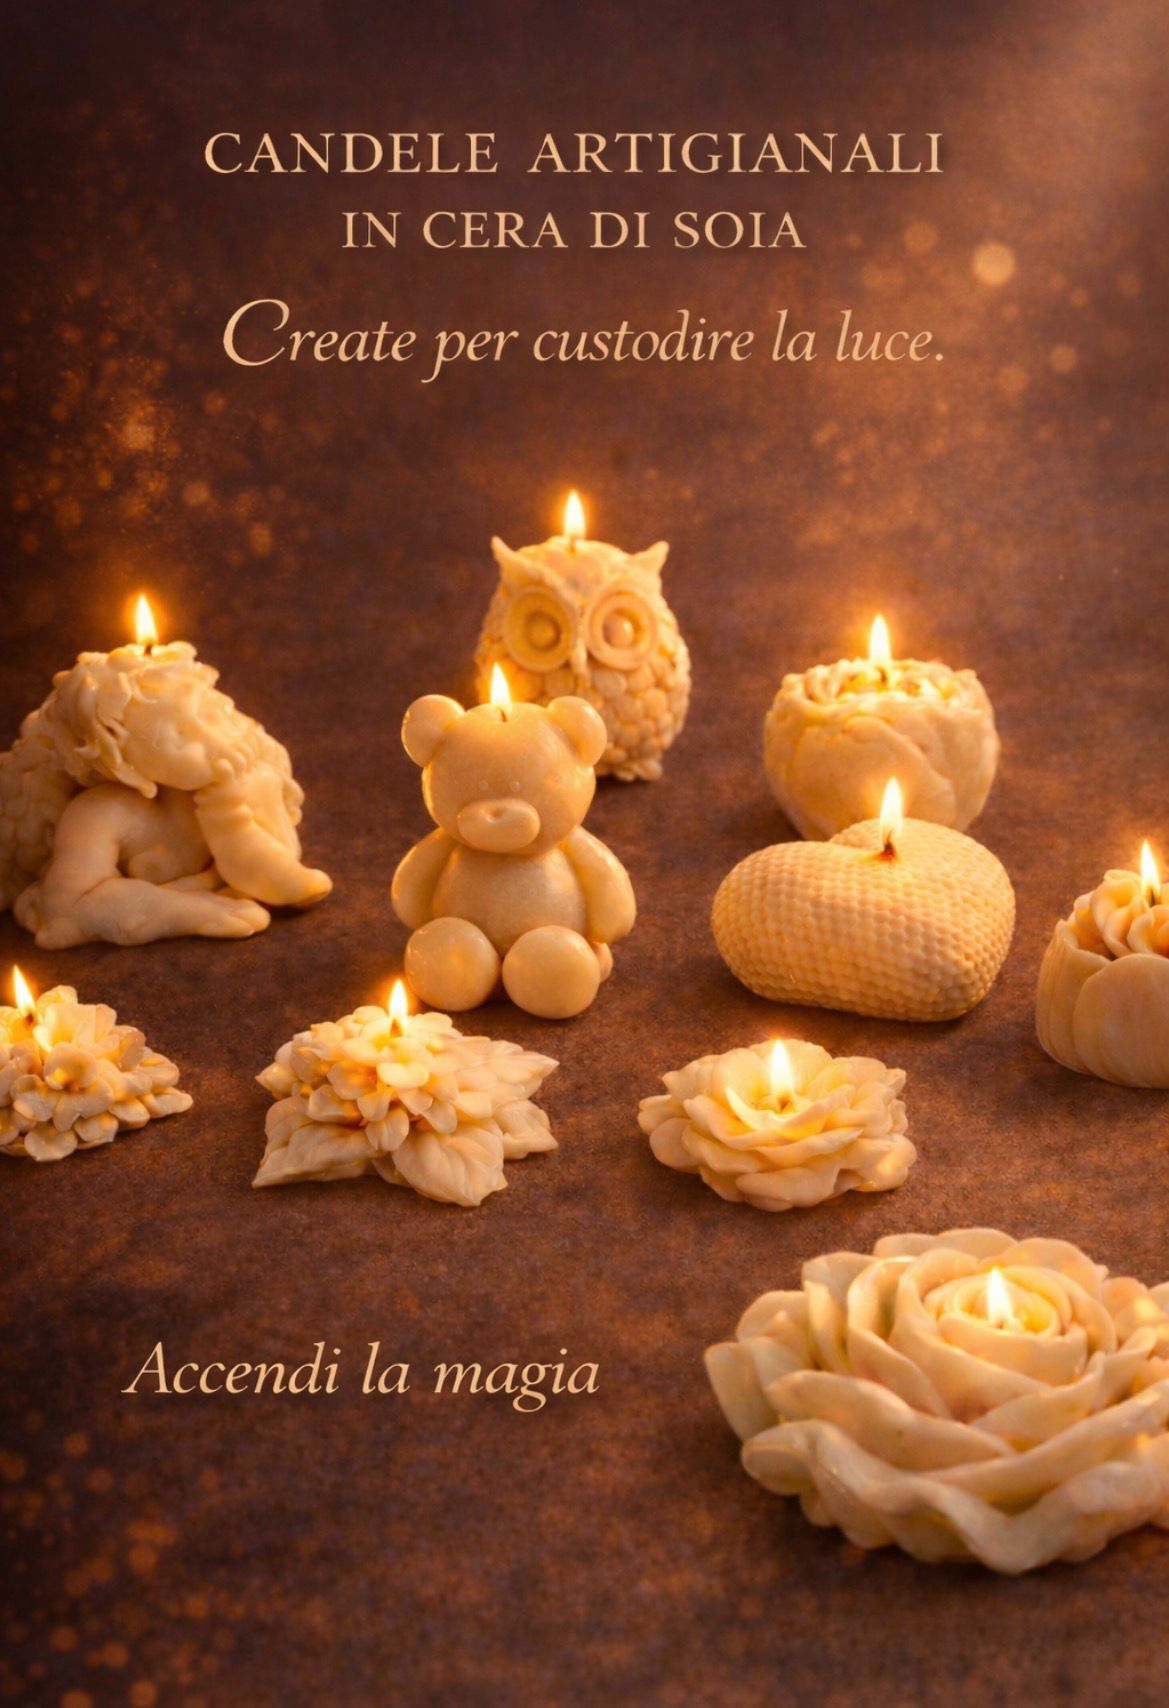
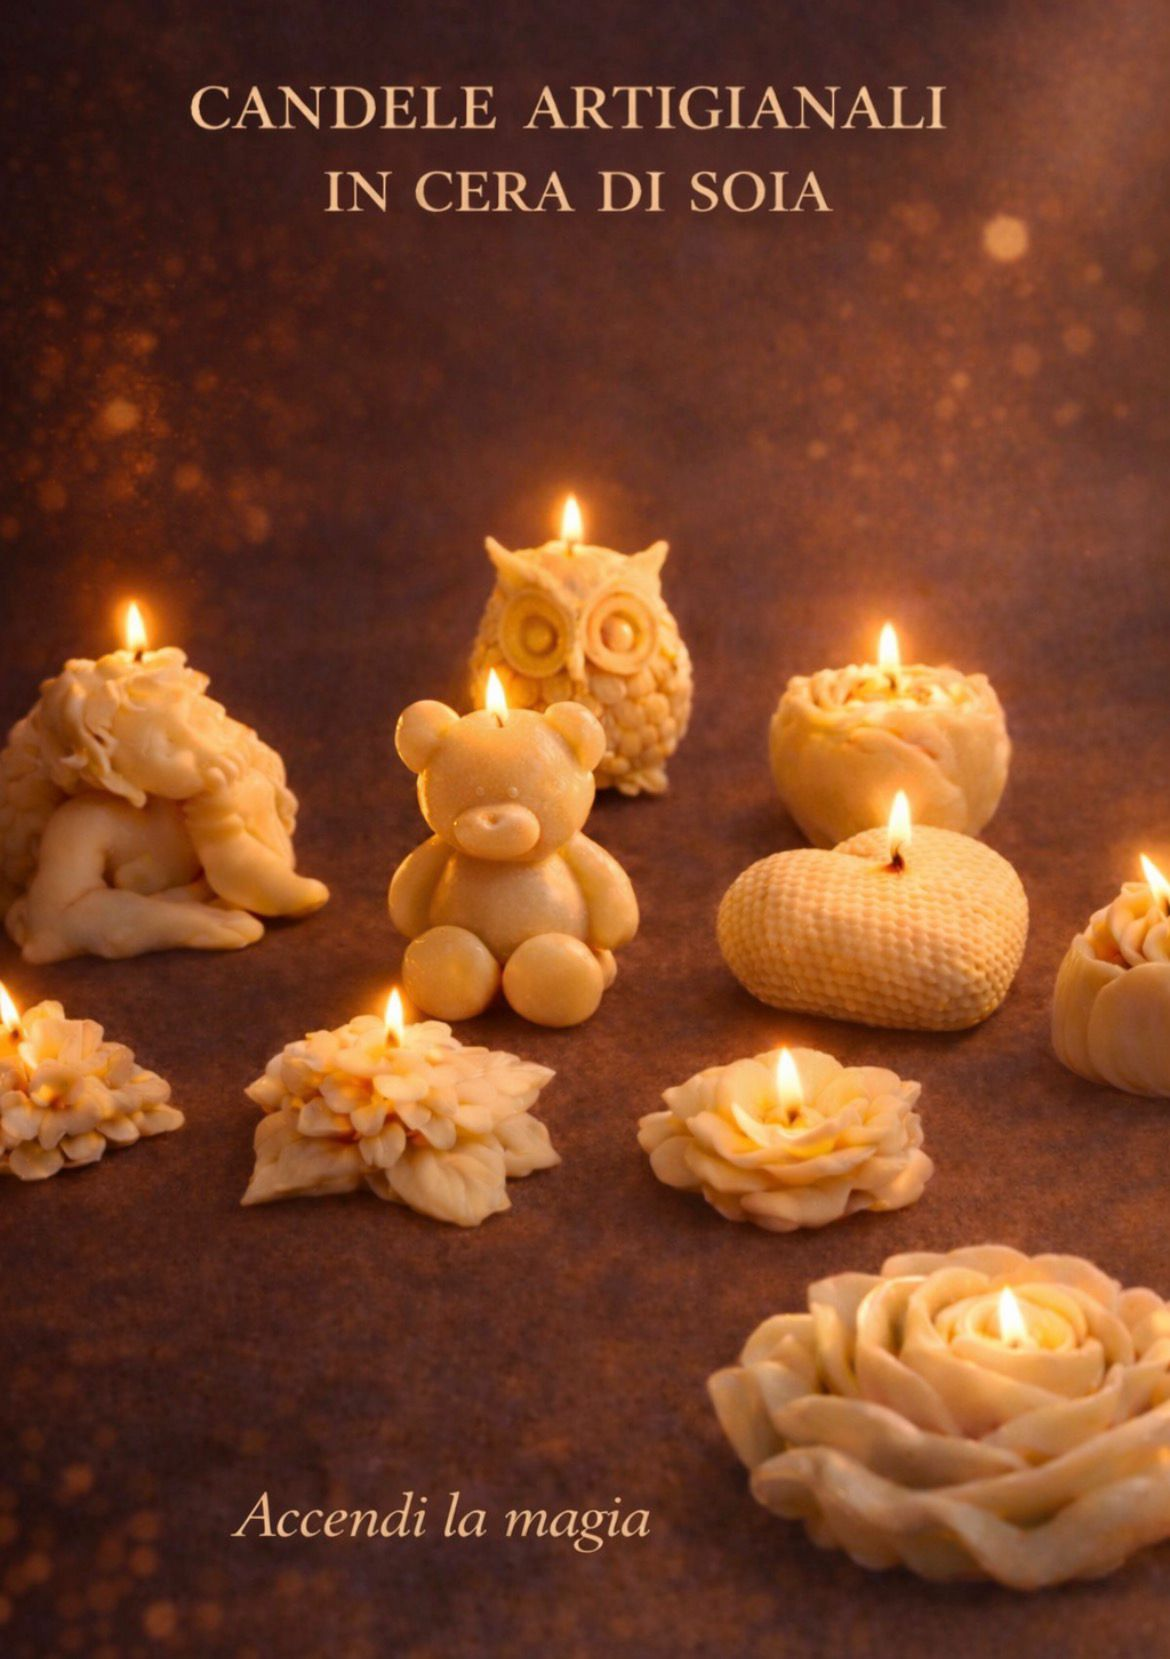
Gallery + revisione testi

diff --git a/layouts/galleria/list.html b/layouts/galleria/list.html
@@ -94,6 +94,71 @@
         <img src="/img/galleria/soia.jpeg" class="zoomable" alt="Descrizione 1">
       </a>
 
+       <!-- IMMAGINE 17 -->
+       <a href="/img/galleria/17.jpeg" class="gallery-item">
+        <img src="/img/galleria/17.jpeg" class="zoomable" alt="Descrizione 1">
+      </a>
+
+       <!-- IMMAGINE 18 -->
+       <a href="/img/galleria/18.jpeg" class="gallery-item">
+        <img src="/img/galleria/18.jpeg" class="zoomable" alt="Descrizione 1">
+      </a>
+
+       <!-- IMMAGINE 11 -->
+       <a href="/img/galleria/11.jpeg" class="gallery-item">
+        <img src="/img/galleria/11.jpeg" class="zoomable" alt="Descrizione 1">
+      </a>
+
+       <!-- IMMAGINE 12 -->
+       <a href="/img/galleria/12.jpeg" class="gallery-item">
+        <img src="/img/galleria/12.jpeg" class="zoomable" alt="Descrizione 1">
+      </a>
+
+       <!-- IMMAGINE 13 -->
+       <a href="/img/galleria/13.jpeg" class="gallery-item">
+        <img src="/img/galleria/13.jpeg" class="zoomable" alt="Descrizione 1">
+      </a>
+
+       <!-- IMMAGINE 14 -->
+       <a href="/img/galleria/14.jpeg" class="gallery-item">
+        <img src="/img/galleria/14.jpeg" class="zoomable" alt="Descrizione 1">
+      </a>
+
+       <!-- IMMAGINE 15 -->
+       <a href="/img/galleria/15.jpeg" class="gallery-item">
+        <img src="/img/galleria/15.jpeg" class="zoomable" alt="Descrizione 1">
+      </a>
+
+       <!-- IMMAGINE 16 -->
+       <a href="/img/galleria/16.jpeg" class="gallery-item">
+        <img src="/img/galleria/16.jpeg" class="zoomable" alt="Descrizione 1">
+      </a>
+
+       <!-- IMMAGINE 19 -->
+       <a href="/img/galleria/19.jpeg" class="gallery-item">
+        <img src="/img/galleria/19.jpeg" class="zoomable" alt="Descrizione 1">
+      </a>
+
+       <!-- IMMAGINE 20 -->
+       <a href="/img/galleria/20jpeg" class="gallery-item">
+        <img src="/img/galleria/20.jpeg" class="zoomable" alt="Descrizione 1">
+      </a>
+
+       <!-- IMMAGINE 21 -->
+       <a href="/img/galleria/21.jpeg" class="gallery-item">
+        <img src="/img/galleria/21.jpeg" class="zoomable" alt="Descrizione 1">
+      </a>
+
+       <!-- IMMAGINE 22 -->
+       <a href="/img/galleria/22.jpeg" class="gallery-item">
+        <img src="/img/galleria/22.jpeg" class="zoomable" alt="Descrizione 1">
+      </a>
+
+       <!-- IMMAGINE 23 -->
+       <a href="/img/galleria/23.jpeg" class="gallery-item">
+        <img src="/img/galleria/23.jpeg" class="zoomable" alt="Descrizione 1">
+      </a>
+
 
 
       <!-- DUPLICA E MODIFICA -->

diff --git a/content/candele/incontro-con-la-luce.md b/content/candele/incontro-con-la-luce.md
@@ -15,7 +15,7 @@ Tutto è iniziato per caso, quasi per curiosità, direi per gioco.
 
 Adoro il bricolage, la creatività espressa con le mani, quella che trasforma e stupisce.
 
-La mia attenzione è caduta su una locandina molto ben studiata, serissima, ma luminosissima al tempo stesso, rischiarata da una fiamma arancione di una semplicissima candela. Ho sentito quest’iniziativa subito “amica”, in risonanza con me.
+La mia attenzione è caduta su una locandina molto ben studiata, scurissima, ma luminosissima al tempo stesso, rischiarata da una fiamma arancione di una semplicissima candela. Ho sentito quest’iniziativa subito “amica”, in risonanza con me.
 
 Ho letto poi con più precisione di cosa si trattasse e ho capito che non mi ero sbagliata: era la proposta di un pomeriggio dedicato alla creazione di candele.
 
@@ -27,7 +27,7 @@ Mi sono sentita subito accolta da quel mondo dorato che viveva nel “processo d
 
 Un crescendo di luminosità che rischiara, risplende e brilla.
 
-Ed ecco che sono nate rose, fiori, farfalle, angeli, cubi, sfere, capricorni, gatti, l’albero della vita, il Tao, fiocchi di neve, stelle.
+Ed ecco che sono nate rose, fiori, farfalle, angeli, cubi, sfere, cagnolini, gatti, l’albero della vita, il Tao, fiocchi di neve, stelle.
 
 Tutto un mondo multicolore che ho pensato potesse donare un poco di luce ovunque o potesse, a sua volta, essere regalato a chiunque.
 

diff --git a/content/libri/fu-il-fiorellino-dell-arcobaleno.md b/content/libri/fu-il-fiorellino-dell-arcobaleno.md
@@ -8,8 +8,6 @@ amazon: "#"
 giardino: "#"
 ---
 
-Accoglienza, Autenticità, Gioia, Dolcezza, Tolleranza, Fraternità, Empatia, Ascolto, Aiuto, Resilienza sono alcune tinte dell’Universo dell’adozione: un cammino che permette l’unione di quattro cuori.
+Accoglienza, Autenticità, Gioia, Dolcezza, Tolleranza, Fraternità, Empatia, Ascolto, Aiuto, Resilienza sono alcune tinte dell’Universo dell’adozione, un cammino che permette l’Unione di quattro cuori: ciascuno, a proprio modo, contribuisce alla incantevole creazione di un RICCO MONDO.
 
-Ciascuno, a proprio modo, contribuisce alla creazione di un ricco mondo, fatto di incontri, scoperte e nuova consapevolezza.
-
-La mia certezza è che, nella società multietnica in cui viviamo, si possa leggere la differenza non come paura o giudizio, ma come un’occasione di crescita, come una possibilità di vivere la tolleranza, l’aiuto, la curiosità, il rispetto.
+Queste virtù, rifletto, sono proprio le stesse di cui la quotidianità di ciascun essere umano necessita per “respirare”, vivere e, soprattutto, costruire un mondo di Vera Umanità.

diff --git a/content/candele/paraffina.md b/content/candele/paraffina.md
@@ -4,12 +4,19 @@ layout = "candela"
 draft = false
 
 gallery = [
-  "/img/angel.jpeg",
-  "/img/angel1.jpeg",
-  "/img/angel2.jpeg",
-  "/img/angel3.jpeg",
-  "/img/angel4.jpeg",
-  "/img/angel6.jpeg"
+  "/img/paraffina/1.jpeg",
+  "/img/paraffina/2.jpeg",
+  "/img/paraffina/3.jpeg",
+  "/img/paraffina/4.jpeg",
+  "/img/paraffina/5.jpeg",
+  "/img/paraffina/6.jpeg",
+  "/img/paraffina/7.jpeg",
+  "/img/paraffina/8.jpeg",
+  "/img/paraffina/9.jpeg",
+  "/img/paraffina/10.jpeg",
+  "/img/paraffina/23.jpeg",
+  "/img/paraffina/para.jpeg",
+  
 ]
 +++
 

diff --git a/content/candele/soia.md b/content/candele/soia.md
@@ -4,12 +4,14 @@ layout = "candela"
 draft = false
 
 gallery = [
-  "/img/angel.jpeg",
-  "/img/angel1.jpeg",
-  "/img/angel2.jpeg",
-  "/img/angel3.jpeg",
-  "/img/angel4.jpeg",
-  "/img/angel6.jpeg"
+  "/img/soia/soia1.jpeg",
+  "/img/soia/soia2.jpeg",
+  "/img/soia/soia3.jpeg",
+  "/img/soia/soia4.jpeg",
+  "/img/soia/soia5.jpeg",
+  "/img/soia/soia6.jpeg",
+  "/img/soia/soia7.jpeg",
+  "/img/soia/soia8.jpeg",
 ]
 +++
 

diff --git a/content/candele/cera.md b/content/candele/cera.md
@@ -4,12 +4,12 @@ layout = "candela"
 draft = false
 
 gallery = [
-  "/img/angel.jpeg",
-  "/img/angel1.jpeg",
-  "/img/angel2.jpeg",
-  "/img/angel3.jpeg",
-  "/img/angel4.jpeg",
-  "/img/angel6.jpeg"
+  "/img/cera/cera.jpeg",
+  "/img/cera/cera1.jpeg",
+  "/img/cera/cera2.jpeg",
+  "/img/cera/cera3.jpeg",
+  "/img/cera/cera4.jpeg",
+  "/img/cera/cera5.jpeg",
 ]
 +++
 
